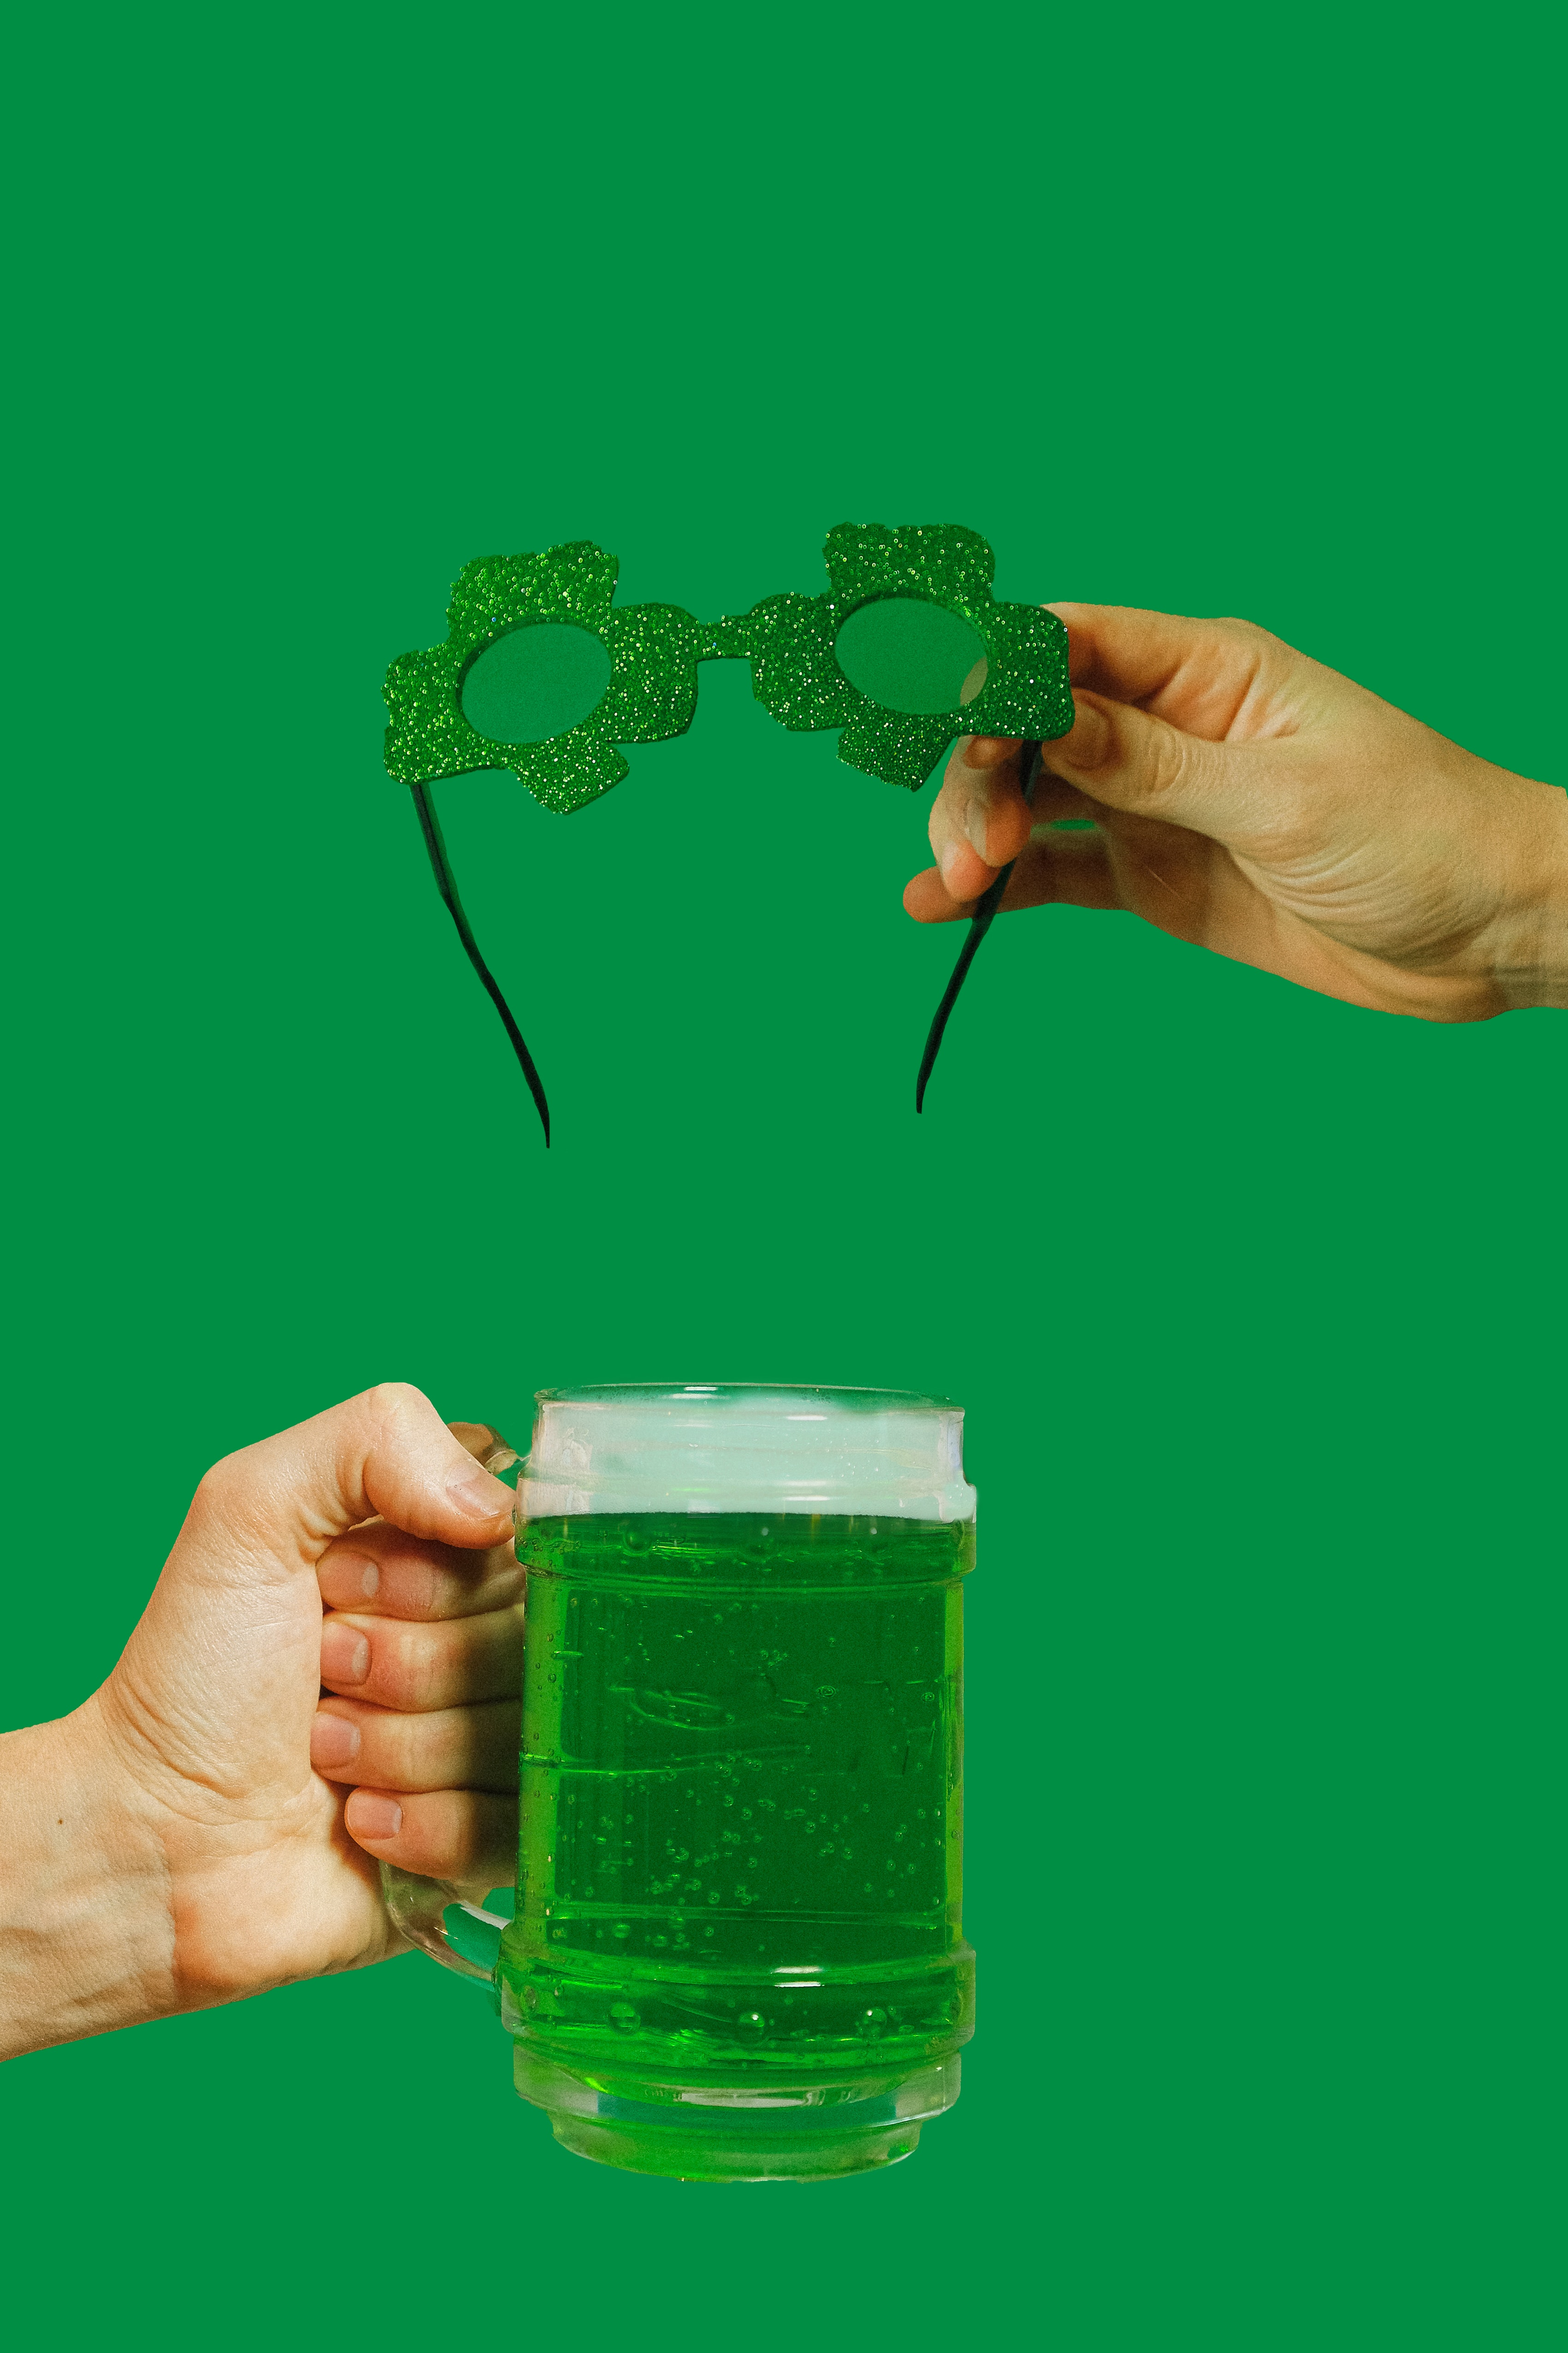
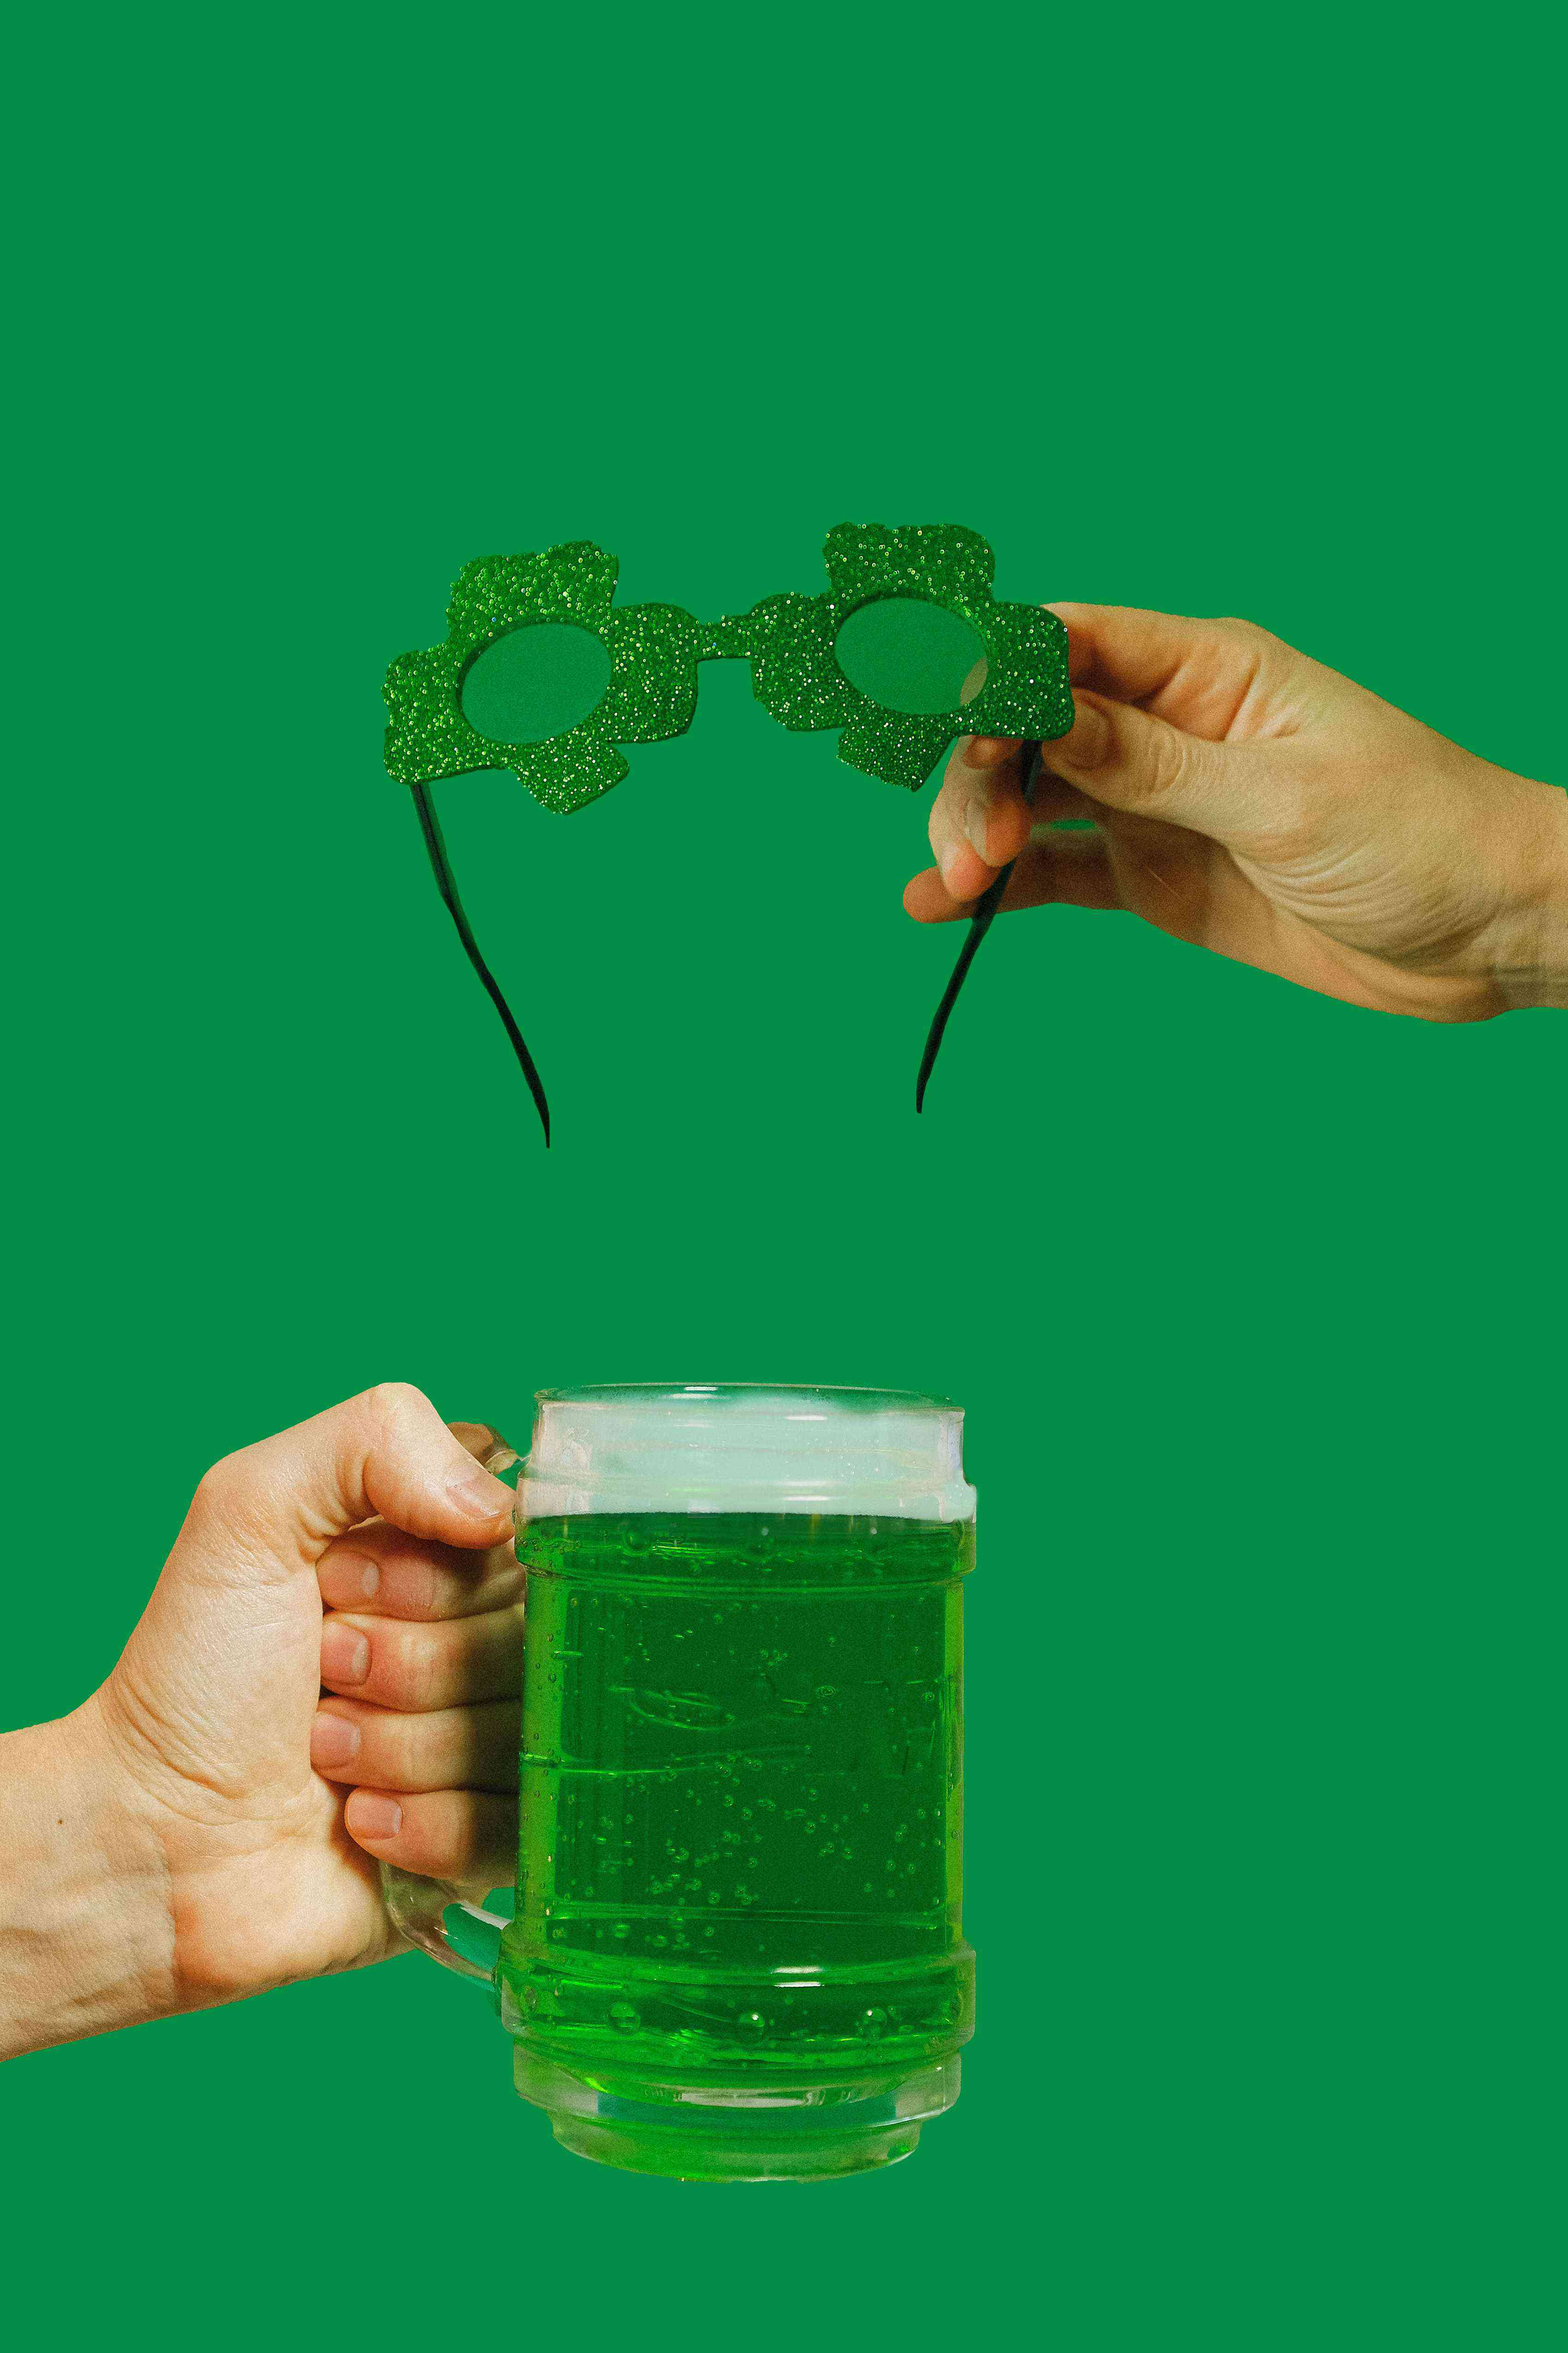
included Affinity Design and Affinity Photo to technologies, organized our names in alphabetical order and reduced the size of 2 pictures that were holding up our score on Lighthouse

diff --git a/README.md b/README.md
@@ -76,10 +76,12 @@ This project is created with:
 
 - HTML5 - used for building the website
 - CSS3 - for styling elements
-- JavaScript
+- JavaScript - for Materialize elements and to connect to Email JS API.
 - Google Fonts - Roboto, Marck Script used for the font-family and Open Sans as the fall-back.
 - Font Awesome - for Icons.
 - Materialize CSS - Used for elements, components and styling of the page.
+- Affinity Designer - Creation of the Webpage Logo.
+- Affinity Photo - To resize and reduce picture sizes.
 - Visual Studio Code - Text editor for coding
 - GitHub - Used for hosting the code, project management and version control.
 - GitHub Pages - This is where the site is deployed.
@@ -196,9 +198,10 @@ Below are the resources that were used.
 
 This webiste was created through guidance from our mentor Chris, team efforts, effective and efficient collaboration and communications from the team member below.
 
-- Fabio De Araujo
-- Magda Ruszaj
 - Alessandro Commentucci
-- Joan Amudu
-- Mike Casey
+- Fabio De Araujo
 - Fiachra Holland
+- Joan Amudu
+- Magda Ruszaj
+- Mike Casey
+
